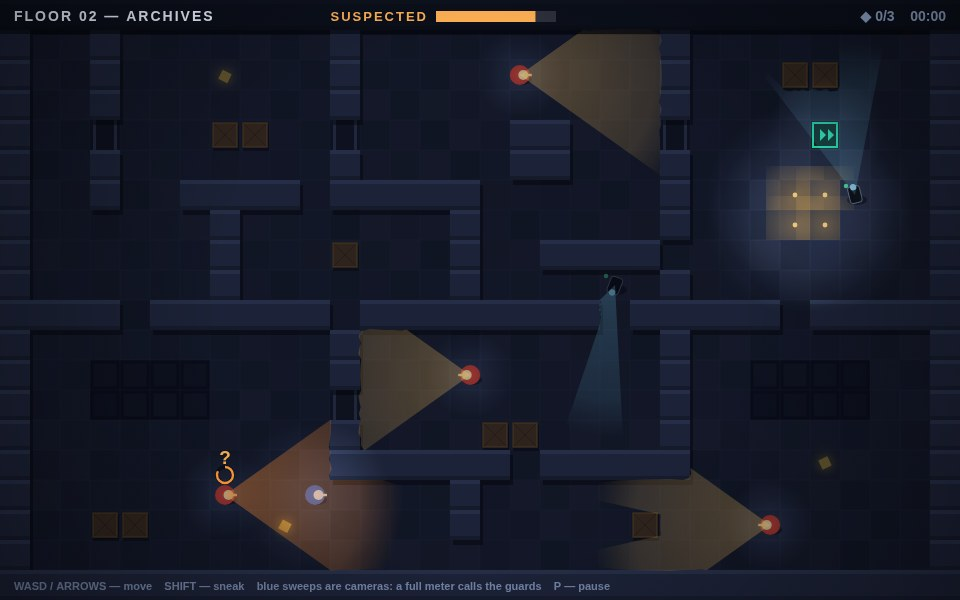
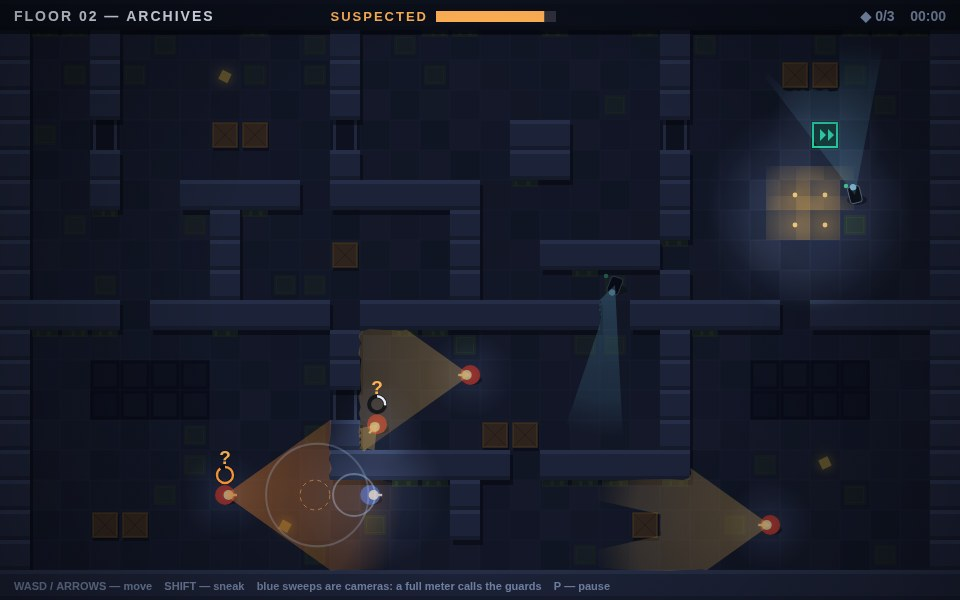
v5: visible noise rings, per-floor dressing, hunted edge pulse, restaged play shot

diff --git a/game/src/render.js b/game/src/render.js
@@ -3,7 +3,7 @@
 // raycast vision cones are drawn, then a lighting pass drops darkness over
 // everything the lamps, the lift and the cones do not hold back.
 
-import { CAMERA, COLORS, GUARD, TILE, VIEW } from './config.js';
+import { CAMERA, COLORS, GUARD, PLAYER, TILE, VIEW } from './config.js';
 import { LEVELS } from './levels.js';
 import { tileHash } from './random.js';
 import { conePolygon } from './vision.js';
@@ -133,6 +133,36 @@ export function createRenderer(canvas) {
           g.moveTo(x + TILE - 4, y + 4);
           g.lineTo(x + 4, y + TILE - 4);
           g.stroke();
+        }
+      }
+    }
+    // Dressing: each floor gets its own accent — shelf strips along the
+    // walls and worn rugs on the open floor, placed by the same tile hash
+    // that varies the floor tone, so the rooms read as places, not grids.
+    const ACCENTS = ['#6d5322', '#3f5a3a', '#46617c'];
+    const accent = ACCENTS[state.levelIndex % ACCENTS.length];
+    for (let row = 0; row < grid.length; row += 1) {
+      for (let col = 0; col < grid[row].length; col += 1) {
+        if (grid[row][col] !== '.') continue;
+        const x = col * TILE;
+        const y = row * TILE;
+        const h = tileHash(col * 3 + 11, row * 7 + 5);
+        if (row > 0 && grid[row - 1][col] === '#' && h < 0.34) {
+          g.fillStyle = accent;
+          g.globalAlpha = 0.55;
+          g.fillRect(x + 2, y, TILE - 4, 7);
+          g.globalAlpha = 0.8;
+          g.fillRect(x + 4 + (h * 47) % 8, y + 1, 3, 5);
+          g.fillRect(x + 16 + (h * 31) % 6, y + 1, 4, 5);
+          g.globalAlpha = 1;
+        } else if (h > 0.9) {
+          g.fillStyle = accent;
+          g.globalAlpha = 0.4;
+          g.fillRect(x + 4, y + 5, TILE - 8, TILE - 10);
+          g.globalAlpha = 0.65;
+          g.strokeStyle = accent;
+          g.strokeRect(x + 6.5, y + 7.5, TILE - 13, TILE - 15);
+          g.globalAlpha = 1;
         }
       }
     }
@@ -293,6 +323,28 @@ export function createRenderer(canvas) {
         ctx.stroke();
         ctx.restore();
       }
+    }
+
+    // Footfall rings: running is loud, and the rings show exactly how loud —
+    // they expand to the noise radius and fade.
+    for (const ripple of state.ripples ?? []) {
+      const k = ripple.t / 0.85;
+      ctx.save();
+      ctx.strokeStyle = `rgba(190,220,255,${(0.42 * (1 - k)).toFixed(3)})`;
+      ctx.lineWidth = 2;
+      ctx.beginPath();
+      ctx.arc(ripple.x, ripple.y, 6 + k * PLAYER.noiseRadius, 0, Math.PI * 2);
+      ctx.stroke();
+      ctx.restore();
+    }
+
+    // Hunted: the frame itself pulses red at the edges.
+    if (state.status === 'HUNTED') {
+      ctx.save();
+      ctx.strokeStyle = `rgba(255,64,48,${(0.32 + 0.22 * Math.sin(state.time * 7)).toFixed(3)})`;
+      ctx.lineWidth = 7;
+      ctx.strokeRect(3, 3, VIEW.width - 6, VIEW.height - 6);
+      ctx.restore();
     }
 
     // Guard indicators: detection arc and state mark.

diff --git a/game/src/world.js b/game/src/world.js
@@ -86,6 +86,7 @@ export function createWorld(random) {
     alarm: 0,
     status: 'UNSEEN',
     finished: false,
+    ripples: [],
   };
 
   function loadLevel(index) {
@@ -101,6 +102,7 @@ export function createWorld(random) {
     state.alarm = 0;
     state.status = 'UNSEEN';
     state.finished = false;
+    state.ripples = [];
     let guardIndex = 0;
     level.map.forEach((row, r) => {
       [...row].forEach((ch, c) => {
@@ -108,7 +110,7 @@ export function createWorld(random) {
           const p = centre(c, r);
           state.player = {
             x: p.x, y: p.y, radius: PLAYER.radius, angle: -Math.PI / 2,
-            sneaking: false, moving: false, stride: 0,
+            sneaking: false, moving: false, stride: 0, rippleTimer: 0,
           };
         } else if (ch === 'G') {
           state.guards.push(makeGuard(state.grid, [c, r], level.patrols[guardIndex], guardIndex));
@@ -329,7 +331,14 @@ export function createWorld(random) {
       p.angle = Math.atan2(move.y, move.x);
       p.stride += dt * (p.sneaking ? 6 : 10);
       if (!p.sneaking) {
-        // Running feet carry: nearby guards come to look.
+        // Running feet carry — and the renderer draws each footfall ring so
+        // the player can see exactly how far their noise reaches.
+        p.rippleTimer -= dt;
+        if (p.rippleTimer <= 0) {
+          state.ripples.push({ x: p.x, y: p.y, t: 0 });
+          p.rippleTimer = 0.26;
+        }
+        // Nearby guards come to look.
         for (const guard of state.guards) {
           const d = Math.hypot(guard.x - p.x, guard.y - p.y);
           if (d < PLAYER.noiseRadius && guard.state === GUARD_PATROL) {
@@ -356,6 +365,10 @@ export function createWorld(random) {
       state.finished = true;
       events |= EVENT_EXIT;
     }
+
+    // Footfall rings expand and fade.
+    for (const ripple of state.ripples) ripple.t += dt;
+    state.ripples = state.ripples.filter((ripple) => ripple.t < 0.85);
 
     for (const guard of state.guards) events = stepGuard(guard, dt, events);
     for (const cam of state.cameras) events = stepCamera(cam, dt, events);

diff --git a/game/src/shots.js b/game/src/shots.js
@@ -39,12 +39,15 @@ function step(world, ticks, move = IDLE) {
 
 export function stageShot(name, world) {
   if (name === 'play') {
-    // Archives: a guard has half-seen the operative slip along the shelves,
-    // while a ceiling camera sweeps the room behind them both.
+    // Archives: the operative breaks cover and runs — footfall rings
+    // spreading to the noise radius — while one guard half-sees her slip
+    // along the shelves, another turns to investigate the noise, and a
+    // ceiling camera sweeps the room behind them all.
     world.loadLevel(1);
-    placePlayer(world, 10, 16, 0, true);
+    placePlayer(world, 10, 16, 0, false);
     placeGuard(world, 2, 7, 16, 0, 'suspect', 0.58);
-    step(world, 24);
+    placeGuard(world, 0, 13, 13, Math.PI, 'investigate', 0.4);
+    step(world, 24, { x: 1, y: 0, sneak: false });
     return { screen: SCREEN_PLAY, meta: {} };
   }
   if (name === 'shadow') {

diff --git a/README.md b/README.md
@@ -18,7 +18,11 @@ Your night is scored and ranked — GHOST is earned, never given.
   and curtained doorways block their sight exactly as drawn.
 - Detection is a quantity, not a switch. It fills faster up close, in lamp
   light, and when you run; slower in shadow carpet, crouched low, or holding
-  still. Running feet are *heard* — nearby guards come to look.
+  still. Running feet are *heard* — nearby guards come to look, and every
+  footfall draws an expanding ring that shows exactly how far the noise
+  carries. When a chase is on, the frame itself pulses red at the edges.
+  Each floor is dressed in its own accent — shelf strips and worn rugs in
+  amber, green and steel — so the rooms read as places, not grids.
 - A half-seen shape makes a guard stop and stare (`?`). A certain one gives
   chase (`!`). Break their sight and they search where you vanished, then
   settle back to their rounds.
